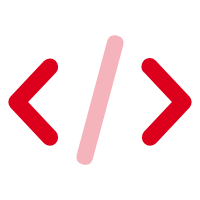
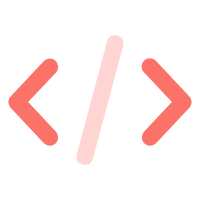
feat: use `Living Coral` as theme color

Changed region(s): [[0.36, 0.18, 0.63, 0.84], [0.69, 0.27, 0.96, 0.75], [0.03, 0.27, 0.3, 0.75]]

diff --git a/src/components/Comment/index.scss b/src/components/Comment/index.scss
@@ -1,9 +1,11 @@
+@import "../../assets/styles/variables.scss";
+
 #comment {
   margin-bottom: 2rem;
 
   .gt-container {
     a {
-      color: #dc001c;
+      color: $theme-color;
       box-shadow: none;
     }
 
@@ -13,7 +15,7 @@
 
     .gt-ico {
       svg {
-        fill: #dc001c;
+        fill: $theme-color;
       }
 
       &.gt-ico-github {
@@ -30,7 +32,7 @@
     }
 
     .gt-action.is--active:before {
-      background-color: #dc001c;
+      background-color: $theme-color;
     }
 
     .gt-header {
@@ -43,13 +45,13 @@
           .gt-btn {
             &.gt-btn-login,
             &.gt-btn-public {
-              background-color: #dc001c;
-              border-color: #dc001c;
+              background-color: $theme-color;
+              border-color: $theme-color;
             }
 
             &.gt-btn-preview {
-              color: #dc001c;
-              border-color: #dc001c;
+              color: $theme-color;
+              border-color: $theme-color;
             }
           }
         }
@@ -64,7 +66,12 @@
       }
 
       .gt-comment-content {
-        background-color: rgba(#dc001c, 0.02);
+        background-color: rgba($theme-color, 0.02);
+
+        blockquote {
+          background-color: rgba($theme-color, 0.03);
+          border-left: 0.25em solid rgba($theme-color, 0.1);
+        }
       }
     }
   }

diff --git a/src/components/Post/index.scss b/src/components/Post/index.scss
@@ -1,3 +1,5 @@
+@import "../../assets/styles/variables.scss";
+
 .post {
   padding-bottom: 10px;
 
@@ -24,7 +26,7 @@
       margin-bottom: 0.75rem;
       font-size: 32px;
       font-weight: 400;
-      color: #dc001c;
+      color: $theme-color;
 
       &__link {
         color: inherit;
@@ -33,7 +35,7 @@
         box-shadow: none;
 
         &:hover {
-          color: lighten(#dc001c, 5);
+          color: lighten($theme-color, 5);
         }
       }
     }
@@ -64,10 +66,10 @@
 
     .post-read-more {
       font-size: 16px;
-      color: #dc001c;
+      color: $theme-color;
 
       &:hover {
-        color: lighten(#dc001c, 5);
+        color: lighten($theme-color, 5);
       }
 
       .post-read-more__link {
@@ -85,7 +87,7 @@
       margin-bottom: 10px;
 
       .post-tag {
-        color: #dc001c;
+        color: $theme-color;
         margin-right: 10px;
 
         &__icon {

diff --git a/src/utils/typography.ts b/src/utils/typography.ts
@@ -2,6 +2,8 @@ import Typography from 'typography';
 // @ts-ignore
 import Wordpress2016 from 'typography-theme-wordpress-2016';
 
+const themeColor = '#FA7268';
+
 // @ts-ignore
 // tslint:disable-next-line:no-shadowed-variable
 Wordpress2016.overrideThemeStyles = ({ rhythm }) => ({
@@ -14,7 +16,7 @@ Wordpress2016.overrideThemeStyles = ({ rhythm }) => ({
   },
   'a': {
     boxShadow: '0 1px 0 0 currentColor',
-    color: '#dc001c',
+    color: themeColor,
     textDecoration: 'none',
   },
   'p': {
@@ -30,7 +32,7 @@ Wordpress2016.overrideThemeStyles = ({ rhythm }) => ({
     paddingTop: rhythm(1 / 4),
     paddingBottom: rhythm(1 / 4),
     background: '#fafafa',
-    borderLeft: `${rhythm(1 / 8)} solid #dc001c`,
+    borderLeft: `${rhythm(1 / 8)} solid ${themeColor}`,
   },
 });
 

diff --git a/src/components/Footer/index.scss b/src/components/Footer/index.scss
@@ -1,3 +1,5 @@
+@import "../../assets/styles/variables.scss";
+
 .footer {
   width: 100%;
   padding: 30px 0;
@@ -21,7 +23,7 @@
         box-shadow: none;
 
         &:hover {
-          color: #dc001c;
+          color: $theme-color;
         }
       }
     }
@@ -62,7 +64,7 @@
           box-shadow: none;
 
           &:hover {
-            color: #dc001c;
+            color: $theme-color;
             border-bottom: none;
           }
         }
@@ -109,7 +111,7 @@
           box-shadow: none;
 
           &:hover {
-            color: #dc001c;
+            color: $theme-color;
             border-bottom: none;
           }
         }

diff --git a/src/components/TagsWidget/index.scss b/src/components/TagsWidget/index.scss
@@ -1,3 +1,5 @@
+@import "../../assets/styles/variables.scss";
+
 .tags {
   .tag-item {
     font-size: 14px;
@@ -14,8 +16,8 @@
       transition: all 0.3s ease;
 
       &:hover {
-        color: #dc001c;
-        border-color: #dc001c;
+        color: $theme-color;
+        border-color: $theme-color;
       }
     }
 

diff --git a/gatsby-config.js b/gatsby-config.js
@@ -70,7 +70,7 @@ module.exports = {
         short_name: `Ahonn's Blog`,
         start_url: `/`,
         background_color: `#ffffff`,
-        theme_color: `#dc001c`,
+        theme_color: `#FA7268`,
         display: 'standalone',
         icon: `src/assets/icon.png`,
         theme_color_in_head: false,

diff --git a/src/components/RecentWidget/index.scss b/src/components/RecentWidget/index.scss
@@ -1,3 +1,5 @@
+@import "../../assets/styles/variables.scss";
+
 .recent {
   .recent-item {
     margin-bottom: 15px;
@@ -22,7 +24,7 @@
       transition: all 0.2s ease;
 
       &:hover {
-        color: #dc001c;
+        color: $theme-color;
         text-decoration: underline;
       }
     }

diff --git a/src/components/Pagination/index.scss b/src/components/Pagination/index.scss
@@ -1,3 +1,5 @@
+@import "../../assets/styles/variables.scss";
+
 .pagination {
   margin-top: 10px;
   margin-bottom: 40px;
@@ -17,7 +19,7 @@
 
     &:hover {
       color: #fff;
-      background-color: #dc001c;
+      background-color: $theme-color;
     }
   }
 

diff --git a/src/components/Header/index.scss b/src/components/Header/index.scss
@@ -1,3 +1,5 @@
+@import "../../assets/styles/variables.scss";
+
 .header {
   position: fixed;
   top: 0;
@@ -82,7 +84,7 @@
         box-shadow: none;
 
         &:hover {
-          color: #dc001c;
+          color: $theme-color;
         }
       }
 

diff --git a/src/components/ArchivesWidget/index.scss b/src/components/ArchivesWidget/index.scss
@@ -1,3 +1,5 @@
+@import "../../assets/styles/variables.scss";
+
 .archives {
   .archive-item {
     &__link {
@@ -21,7 +23,7 @@
       letter-spacing: 1px;
 
       &:hover {
-        color: #dc001c;
+        color: $theme-color;
       }
     }
 

diff --git a/src/assets/styles/markdown.scss b/src/assets/styles/markdown.scss
@@ -1,3 +1,5 @@
+@import "./variables.scss";
+
 .markdown {
   code {
     font-size: 0.9rem;
@@ -7,7 +9,7 @@
     box-shadow: none;
 
     svg path {
-      fill: #dc001c;
+      fill: $theme-color;
     }
   }
 

diff --git a/src/assets/styles/variables.scss b/src/assets/styles/variables.scss
@@ -1,0 +1,1 @@
+$theme-color: #FA7268;
